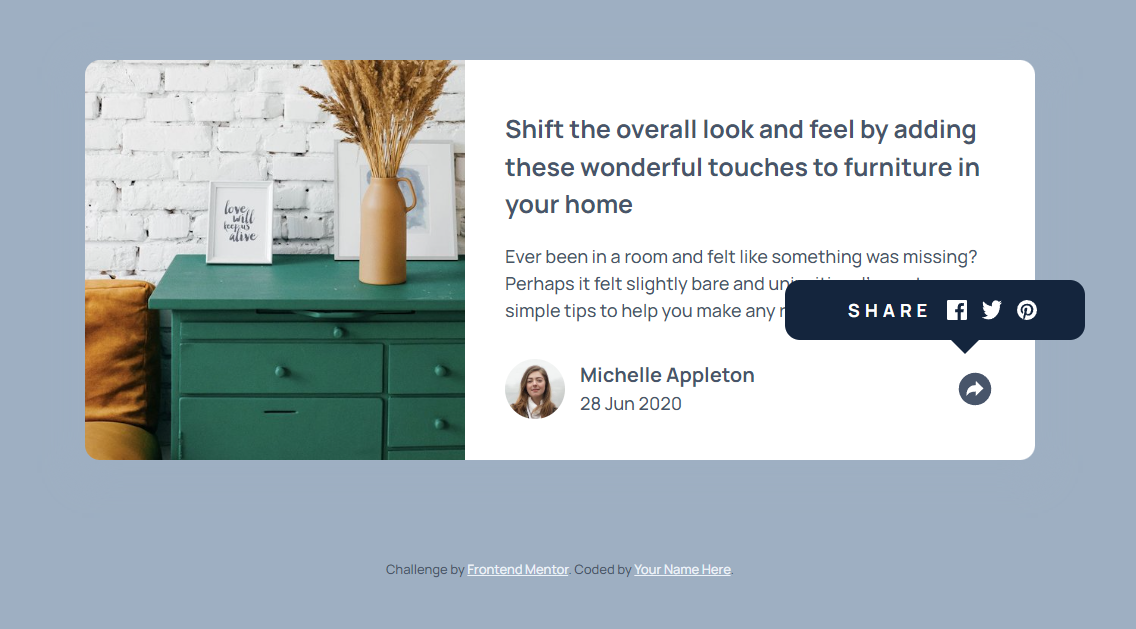
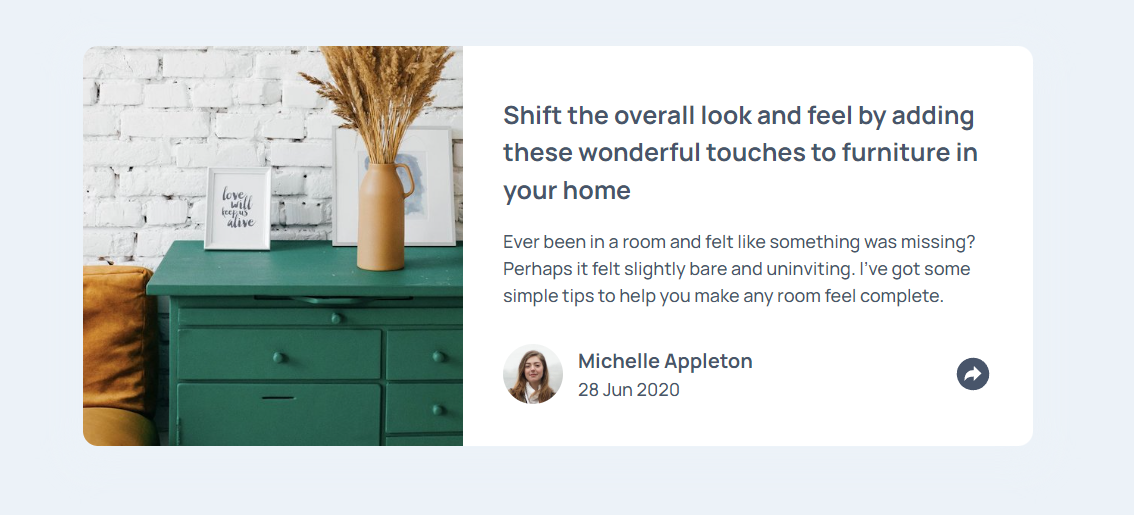
- changed background colour to be lighter - updates the screenshots

diff --git a/style.css b/style.css
@@ -26,7 +26,7 @@ body{
     font-family: 'Manrope', sans-serif;
     font-size: 1.3rem;
     color: var(--text-dark-color);
-    background-color: var(--primary-bg-color);
+    background-color: var(--text-secondary-color);
 }
 
 @media (min-width: 769px){
@@ -229,9 +229,10 @@ p{
 
 
 footer{
+    color: var(--primary-bg-color);
     margin-top: 10rem;
 }
 
 footer a{
-    color: var(--text-secondary-color);
+    color: var(--text-dark-color);
 }
